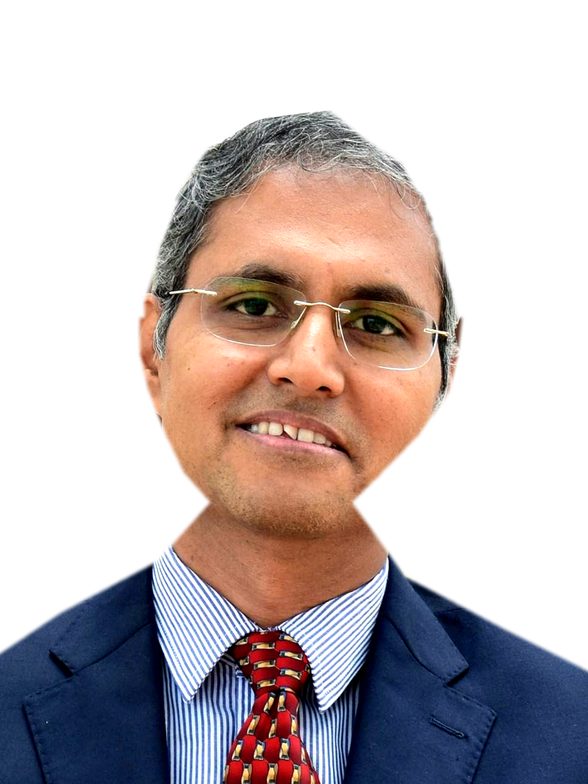
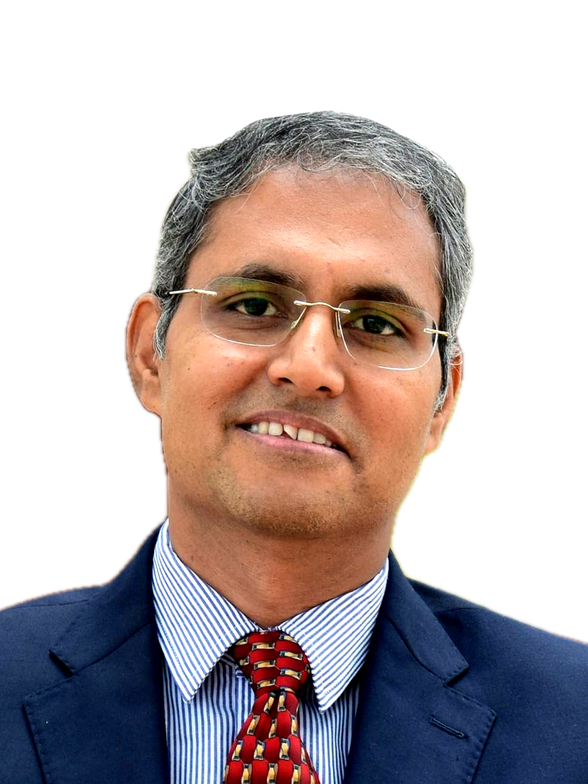
Cut Virendra Somwanshi out with a real subject mask instead of a traced outline
The hand-traced polygon left his jaw and cheeks angular, flattened the top
of his hair and let a corner of the wall through above it. macOS Vision's
foreground mask follows the actual hair, ears, jaw and collar, and shows
the crown was never cut off by the photograph — only by the trace.

diff --git a/src/content/home.ts b/src/content/home.ts
@@ -546,8 +546,10 @@ export const mentorsIntro = {
  *
  * The files in `public/images/mentors/` are cut out and set on the card's
  * own 588 × 784 canvas so that every mentor card is the team card: the
- * subject keyed from a plain studio ground where there was one, traced by
- * hand where there was not (an office wall, a stage), the head at half the
+ * subject keyed from a plain studio ground where there was one, and cut
+ * with macOS Vision's subject mask where there was not (Virendra
+ * Somwanshi's wood-panelled wall; a hand-traced outline there left the
+ * jaw and hair angular), the head at half the
  * card's height with the eyes at 37.5% — the framing of the strip above —
  * and the shoulders running off the foot of the card. Levels are set from
  * the photograph and the face brought to one brightness across the set.
